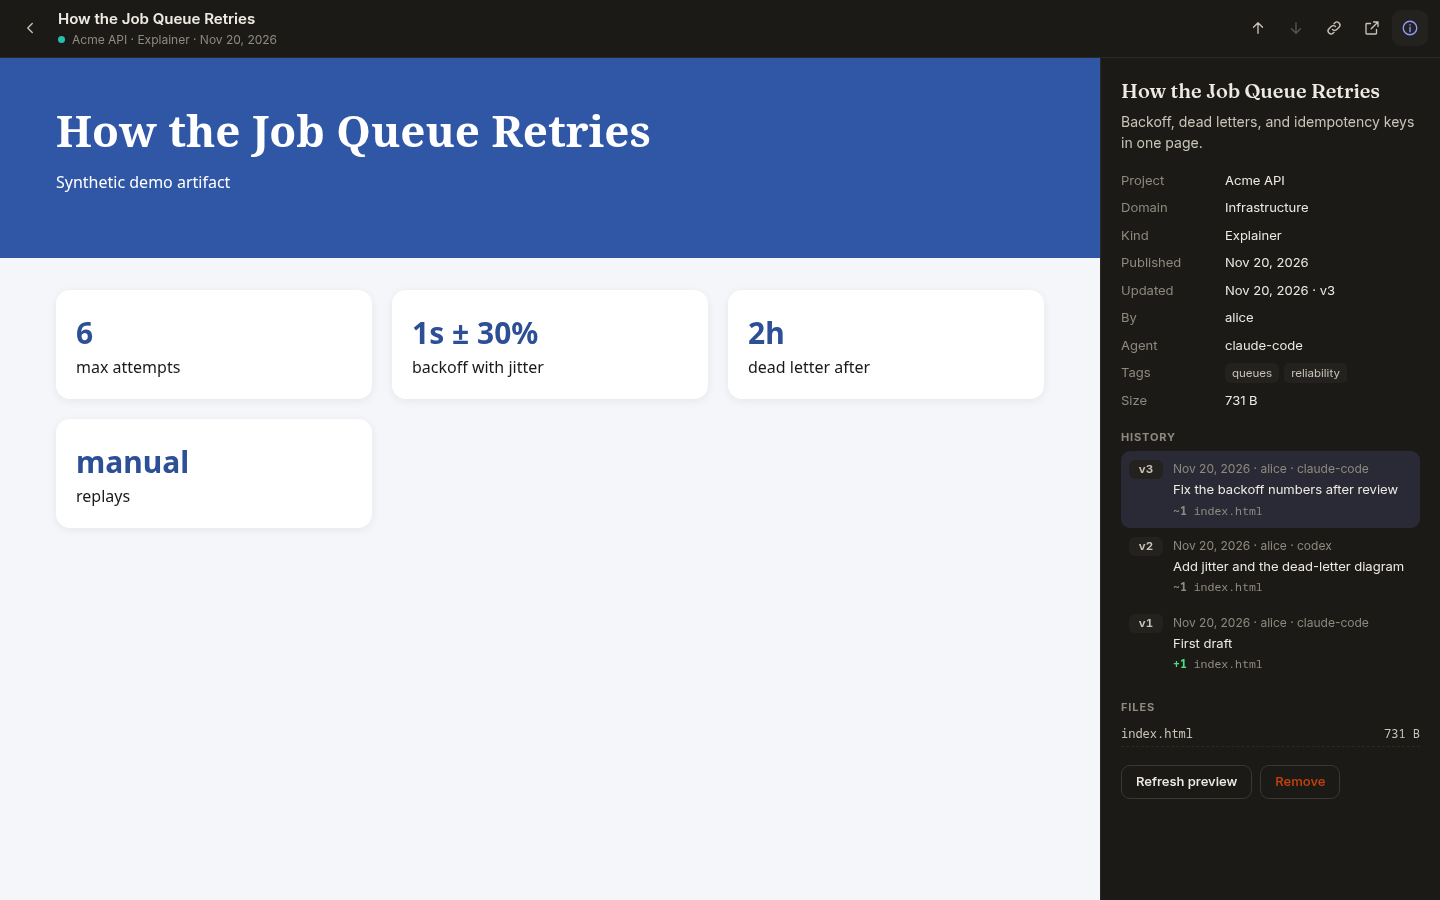
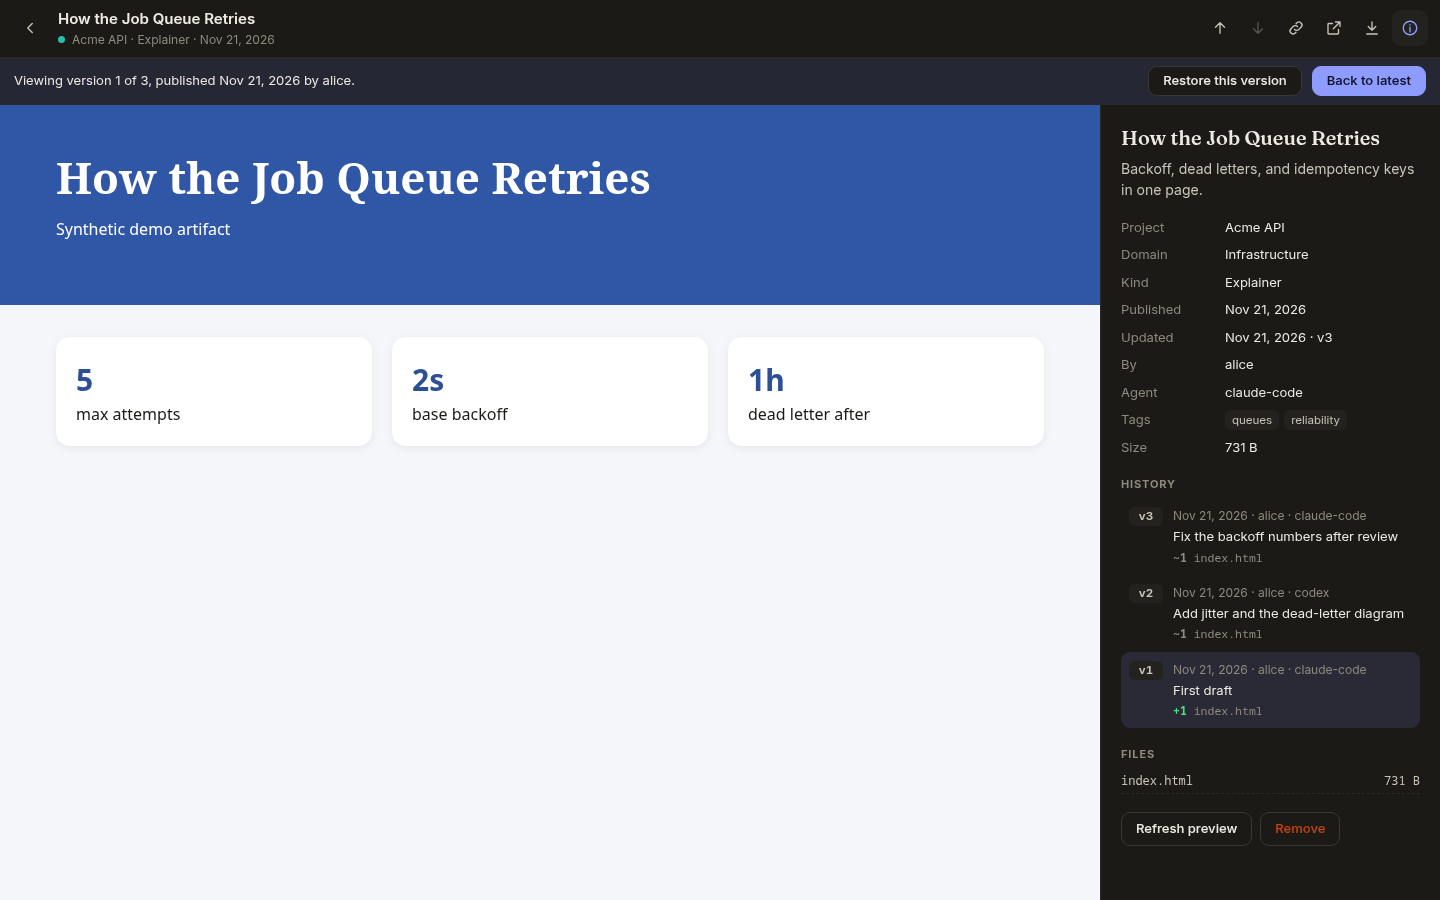
feat: download any version, as the file itself or a zip

diff --git a/test/download.test.ts b/test/download.test.ts
@@ -1,0 +1,60 @@
+// Downloading a version: one file as itself, several files as a zip that standard tools open.
+import { afterAll, expect, test } from "bun:test";
+import { owner, publisher, startBinder, writer } from "./helpers";
+
+const b = startBinder({}, { now: () => Date.parse("2026-11-21T09:30:00Z") });
+const publish = publisher(b.base);
+afterAll(() => b.stop());
+const download = (path: string, headers: Record<string, string> = owner) => fetch(`${b.base}/api/artifacts/${path}`, { headers });
+
+// Python's zipfile is an independent reader: it checks every CRC and the central directory.
+const python = Bun.which("python3");
+function readZip(bytes: Uint8Array): { names: string[]; files: Record<string, string>; bad: string | null } {
+  const script = `import sys, zipfile, io, json
+z = zipfile.ZipFile(io.BytesIO(sys.stdin.buffer.read()))
+print(json.dumps({"names": z.namelist(), "files": {n: z.read(n).decode() for n in z.namelist()}, "bad": z.testzip()}))`;
+  const r = Bun.spawnSync([python!, "-c", script], { stdin: bytes });
+  if (r.exitCode !== 0) throw new Error(r.stderr.toString());
+  return JSON.parse(r.stdout.toString());
+}
+
+test("a one-file version downloads as that file, never rendered by the browser", async () => {
+  await publish({ id: "solo", title: "Solo" }, [["index.html", "<p>solo</p>"]]);
+  const r = await download("solo/download");
+  expect(r.status).toBe(200);
+  expect(r.headers.get("content-disposition")).toBe('attachment; filename="solo-v1.html"');
+  expect(r.headers.get("content-security-policy")).toBe("sandbox");
+  expect(r.headers.get("x-content-type-options")).toBe("nosniff");
+  expect(await r.text()).toBe("<p>solo</p>");
+});
+
+test.skipIf(!python)("a multi-file version downloads as a valid zip with a top folder", async () => {
+  const big = "<p>" + "repeat ".repeat(2000) + "</p>"; // deflated
+  await publish({ id: "deck", title: "Deck" }, [["index.html", big], ["img/a.svg", "<svg/>"], ["notes é.txt", "é"]]);
+  const r = await download("deck/download");
+  expect(r.headers.get("content-type")).toBe("application/zip");
+  expect(r.headers.get("content-disposition")).toBe('attachment; filename="deck-v1.zip"');
+  const bytes = new Uint8Array(await r.arrayBuffer());
+  expect(bytes.length).toBeLessThan(big.length); // compression ran
+  const z = readZip(bytes);
+  expect(z.bad).toBeNull();
+  expect(z.names.sort()).toEqual(["deck-v1/img/a.svg", "deck-v1/index.html", "deck-v1/notes é.txt"]);
+  expect(z.files["deck-v1/index.html"]).toBe(big);
+  expect(z.files["deck-v1/notes é.txt"]).toBe("é");
+});
+
+test.skipIf(!python)("an old version downloads by number; latest is the default", async () => {
+  await publish({ id: "deck", title: "Deck", note: "v2" }, [["index.html", "<p>2</p>"], ["b.css", "p{}"]]);
+  expect(readZip(new Uint8Array(await (await download("deck/download")).arrayBuffer())).names.sort()).toEqual(["deck-v2/b.css", "deck-v2/index.html"]);
+  const old = await download("deck/versions/1/download");
+  expect(old.headers.get("content-disposition")).toBe('attachment; filename="deck-v1.zip"');
+  expect(readZip(new Uint8Array(await old.arrayBuffer())).names).toContain("deck-v1/img/a.svg");
+  expect((await download("deck/versions/9/download")).status).toBe(404);
+});
+
+test("download needs an identity, and removed artifacts are gone", async () => {
+  expect((await download("solo/download", {})).status).toBe(401);
+  await fetch(`${b.base}/api/artifacts/solo`, { method: "DELETE", headers: writer });
+  expect((await download("solo/download")).status).toBe(404);
+  expect((await download("solo/versions/1/download")).status).toBe(404);
+});

diff --git a/src/server.ts b/src/server.ts
@@ -5,6 +5,7 @@ import { loadConfig, type Config } from "./config";
 import { loadSecret, signer } from "./content";
 import { openDb, sha256, versionDir, type Artifact, type ArtifactRow, type FileEntry, type Version } from "./db";
 import { thumbnailer } from "./thumbs";
+import { zip } from "./zip";
 
 const MAX_BYTES = 64 * 1024 * 1024;
 const PUBLIC_DIR = join(import.meta.dir, "..", "public");
@@ -293,6 +294,34 @@ export function createApp(cfg: Config, opts: { now?: () => number } = {}) {
     return json({ deleted: id });
   }
 
+  /**
+   * One version as a file to keep: the file itself when the version has one file, otherwise a zip
+   * with a top folder. It is an attachment with a sandbox CSP, so a browser saves it and never runs it here.
+   */
+  async function download(id: string, n: number | null): Promise<Response> {
+    const row = db.row(id);
+    const v = row && !row.deleted_at ? db.version(id, n ?? row.version) : null;
+    if (!v) return fail(404, "not found");
+    const dir = versionDir(cfg.dataDir, id, v.version);
+    const name = `${id}-v${v.version}`;
+    const headers = (filename: string, type: string) => ({
+      "content-type": type,
+      "content-disposition": `attachment; filename="${filename}"`,
+      "content-security-policy": "sandbox",
+      "x-content-type-options": "nosniff",
+      "cache-control": "private, no-store",
+    });
+    if (v.files.length === 1) {
+      const f = v.files[0]!;
+      const ext = f.path.includes(".") ? f.path.slice(f.path.lastIndexOf(".")) : "";
+      return new Response(Bun.file(join(dir, f.path)), { headers: headers(`${name}${ext}`, f.type || "application/octet-stream") });
+    }
+    const files = await Promise.all(
+      v.files.map(async (f) => ({ path: `${name}/${f.path}`, data: await Bun.file(join(dir, f.path)).bytes() })),
+    );
+    return new Response(zip(files, new Date(v.created_at)), { headers: headers(`${name}.zip`, "application/zip") });
+  }
+
   /** Serves one file of one version. The token in the path is the only credential. */
   async function content(id: string, n: number, tok: string, rest: string): Promise<Response> {
     const mode = sign.verify(id, n, tok);
@@ -418,6 +447,8 @@ export function createApp(cfg: Config, opts: { now?: () => number } = {}) {
       if (method === "DELETE") return remove(id);
     }
     if ((m = path.match(/^\/api\/artifacts\/([\w-]+)\/versions$/)) && method === "GET") return history(m[1]!, req);
+    if ((m = path.match(/^\/api\/artifacts\/([\w-]+)(?:\/versions\/(\d+))?\/download$/)) && method === "GET")
+      return download(m[1]!, m[2] ? Number(m[2]) : null);
     if ((m = path.match(/^\/api\/artifacts\/([\w-]+)\/versions\/(\d+)\/restore$/)) && method === "POST")
       return restore(m[1]!, Number(m[2]), who, req);
     if ((m = path.match(/^\/api\/artifacts\/([\w-]+)\/thumbnail$/)) && method === "POST") {

diff --git a/src/zip.ts b/src/zip.ts
@@ -1,0 +1,66 @@
+import { deflateRawSync } from "node:zlib";
+
+/**
+ * Writes a zip archive in memory. Binder caps a version at 64 MB, so ZIP64 is never needed.
+ * Each file is deflated, or stored when deflate does not make it smaller.
+ * Format: PKWARE APPNOTE.TXT, sections 4.3 (structure) and 4.4 (fields).
+ */
+export function zip(files: { path: string; data: Uint8Array }[], mtime: Date): Uint8Array<ArrayBuffer> {
+  const { time, date } = dosTime(mtime);
+  const local: Uint8Array[] = [];
+  const central: Uint8Array[] = [];
+  let offset = 0;
+
+  for (const f of files) {
+    const name = new TextEncoder().encode(f.path);
+    const deflated = deflateRawSync(f.data);
+    const store = deflated.length >= f.data.length;
+    const body = store ? f.data : deflated;
+    const crc = Bun.hash.crc32(f.data) >>> 0;
+    // Shared fields: version needed, flags (bit 11: UTF-8 names), method, time, date, crc, sizes.
+    const common = (h: DataView, at: number) => {
+      h.setUint16(at, 20, true);
+      h.setUint16(at + 2, 0x0800, true);
+      h.setUint16(at + 4, store ? 0 : 8, true);
+      h.setUint16(at + 6, time, true);
+      h.setUint16(at + 8, date, true);
+      h.setUint32(at + 10, crc, true);
+      h.setUint32(at + 14, body.length, true);
+      h.setUint32(at + 18, f.data.length, true);
+      h.setUint16(at + 22, name.length, true);
+    };
+
+    const lh = new DataView(new ArrayBuffer(30));
+    lh.setUint32(0, 0x04034b50, true);
+    common(lh, 4);
+    local.push(new Uint8Array(lh.buffer), name, body);
+
+    const ch = new DataView(new ArrayBuffer(46));
+    ch.setUint32(0, 0x02014b50, true);
+    ch.setUint16(4, 0x0314, true); // made by: Unix, spec 2.0
+    common(ch, 6);
+    ch.setUint32(38, 0o100644 << 16, true); // external attributes: a regular file, rw-r--r--
+    ch.setUint32(42, offset, true);
+    central.push(new Uint8Array(ch.buffer), name);
+
+    offset += 30 + name.length + body.length;
+  }
+
+  const size = central.reduce((n, b) => n + b.length, 0);
+  const end = new DataView(new ArrayBuffer(22));
+  end.setUint32(0, 0x06054b50, true);
+  end.setUint16(8, files.length, true);
+  end.setUint16(10, files.length, true);
+  end.setUint32(12, size, true);
+  end.setUint32(16, offset, true);
+  return new Uint8Array(Buffer.concat([...local, ...central, new Uint8Array(end.buffer)]));
+}
+
+/** MS-DOS date and time, in UTC so an archive does not depend on the server's time zone. */
+function dosTime(d: Date) {
+  const year = Math.max(1980, d.getUTCFullYear());
+  return {
+    time: (d.getUTCHours() << 11) | (d.getUTCMinutes() << 5) | (d.getUTCSeconds() >> 1),
+    date: ((year - 1980) << 9) | ((d.getUTCMonth() + 1) << 5) | d.getUTCDate(),
+  };
+}

diff --git a/public/index.html b/public/index.html
@@ -83,6 +83,7 @@
         <button class="icon-btn" id="v-next" aria-label="Next artifact" title="Next (])"><svg viewBox="0 0 24 24"><path d="M12 5v14M6 13l6 6 6-6"/></svg></button>
         <button class="icon-btn" id="v-copy" aria-label="Copy link" title="Copy link"><svg viewBox="0 0 24 24"><path d="M10 14a4 4 0 0 0 5.7 0l3-3a4 4 0 0 0-5.7-5.7l-1 1"/><path d="M14 10a4 4 0 0 0-5.7 0l-3 3a4 4 0 0 0 5.7 5.7l1-1"/></svg></button>
         <a class="icon-btn" id="v-open" target="_blank" rel="noopener" aria-label="Open in new tab" title="Open in new tab"><svg viewBox="0 0 24 24"><path d="M14 4h6v6M20 4l-9 9M18 14v5a1 1 0 0 1-1 1H5a1 1 0 0 1-1-1V7a1 1 0 0 1 1-1h5"/></svg></a>
+        <a class="icon-btn" id="v-download" download aria-label="Download this version" title="Download this version"><svg viewBox="0 0 24 24"><path d="M12 4v11M7 10l5 5 5-5M5 20h14"/></svg></a>
         <button class="icon-btn" id="v-info" aria-label="Details" title="Details (i)" aria-expanded="false"><svg viewBox="0 0 24 24"><circle cx="12" cy="12" r="9"/><path d="M12 11v6M12 7.5v.5"/></svg></button>
       </div>
     </div>

diff --git a/test/e2e/ui.ts b/test/e2e/ui.ts
@@ -63,6 +63,12 @@ for (const dark of [false, true]) {
     await b.waitFor(`!document.querySelector("#v-version").hidden`);
     check(`old version opens with a banner${sfx}`, (await b.evaluate<string>(`document.querySelector("#v-version").textContent`)).includes("Viewing version 1 of 3"));
     check(`old version loads its own content URL${sfx}`, (await b.evaluate<string>(`document.querySelector("#v-frame").src`)).includes("/c/queue-explainer/1/"));
+    const dl = await b.evaluate<string>(`(async () => {
+      const a = document.querySelector("#v-download");
+      const r = await fetch(a.href);
+      return [a.getAttribute("href"), r.status, r.headers.get("content-disposition")].join(" | ");
+    })()`);
+    check(`download saves the version on screen${sfx}`, dl === '/api/artifacts/queue-explainer/versions/1/download | 200 | attachment; filename="queue-explainer-v1.html"', dl);
     await Bun.sleep(500);
     await shot(b, `viewer-old-version${sfx}`);
     await b.evaluate(`document.querySelector('[data-act="latest"]').click()`);

diff --git a/public/app.js b/public/app.js
@@ -264,6 +264,9 @@ function showContent(src) {
   const frame = $("#v-frame");
   if (frame.dataset.src !== src) { frame.src = src; frame.dataset.src = src; }
   $("#v-open").href = src;
+  // Download whatever version is on screen. The content URL names it: /c/<id>/<version>/...
+  const m = new URL(src, location.href).pathname.match(/^\/c\/([\w-]+)\/(\d+)\//);
+  if (m) $("#v-download").href = `/api/artifacts/${m[1]}/versions/${m[2]}/download`;
 }
 function renderVersionBar(a) {
   const bar = $("#v-version");

diff --git a/README.md b/README.md
@@ -9,7 +9,7 @@ Agents make a lot of things that are not code: interactive explainers, diagrams,
 ## What it does
 
 - **One request to publish.** Any agent that can run `curl` can publish. No SDK, no MCP server, no install on the agent's machine. A drop-in [agent skill](skill/binder/SKILL.md) tells agents how.
-- **Every version kept.** Publishing the same `id` again makes a new version. The history shows who published each one, when, their note, and which files changed. Open any old version, or restore it.
+- **Every version kept.** Publishing the same `id` again makes a new version. The history shows who published each one, when, their note, and which files changed. Open any old version, restore it, or download it (one file as itself, several files as a zip).
 - **Find things again.** Group by project, domain, kind, date, or title. Filter, search, and share a filtered view as a link.
 - **Untrusted HTML stays in its box.** Every page runs in a sandboxed, opaque origin. It cannot read Binder, your session, or other pages, and it cannot publish or delete anything.
 - **Small.** One Bun process, one SQLite file, one data folder. No runtime dependencies and no build step.
@@ -57,7 +57,7 @@ Everything is in [docs/self-hosting.md](docs/self-hosting.md).
 
 The response includes `url` (the viewer link), `version`, and `content_url` (a signed link to this version's files).
 
-Other routes: `GET /api/artifacts`, `GET|PATCH|DELETE /api/artifacts/:id`, `GET /api/artifacts/:id/versions`, `POST /api/artifacts/:id/versions/:n/restore`, `POST /api/artifacts/:id/thumbnail`, `GET|POST|DELETE /api/session`, `GET /c/...` (signed content), `GET /raw/:id/<path>` (redirects to signed content), `GET /thumb/:id.png`, `GET /healthz`.
+Other routes: `GET /api/artifacts`, `GET|PATCH|DELETE /api/artifacts/:id`, `GET /api/artifacts/:id/versions`, `POST /api/artifacts/:id/versions/:n/restore`, `GET /api/artifacts/:id[/versions/:n]/download`, `POST /api/artifacts/:id/thumbnail`, `GET|POST|DELETE /api/session`, `GET /c/...` (signed content), `GET /raw/:id/<path>` (redirects to signed content), `GET /thumb/:id.png`, `GET /healthz`.
 
 This is API v1. Changes inside v1 are additive only.
 

diff --git a/skill/binder/SKILL.md b/skill/binder/SKILL.md
@@ -71,6 +71,14 @@ curl -fsS "$BINDER_URL/api/artifacts" ${BINDER_TOKEN:+-H "Authorization: Bearer 
   | python3 -c 'import json,sys; print(sorted({a["project"] for a in json.load(sys.stdin)["artifacts"]}))'
 ```
 
+## Get the current files to update an artifact
+
+```sh
+curl -fsSOJ "$BINDER_URL/api/artifacts/<id>/download" ${BINDER_TOKEN:+-H "Authorization: Bearer $BINDER_TOKEN"}
+```
+
+This saves `<id>-v<n>.html` for a one-file artifact, or `<id>-v<n>.zip` with a top folder for several files. Add `/versions/<n>` before `/download` for an older version. Edit the files, then publish with the same `id`.
+
 ## If it fails
 
 - `401`: no token, or the token is wrong or revoked. Ask the user for a new one.
